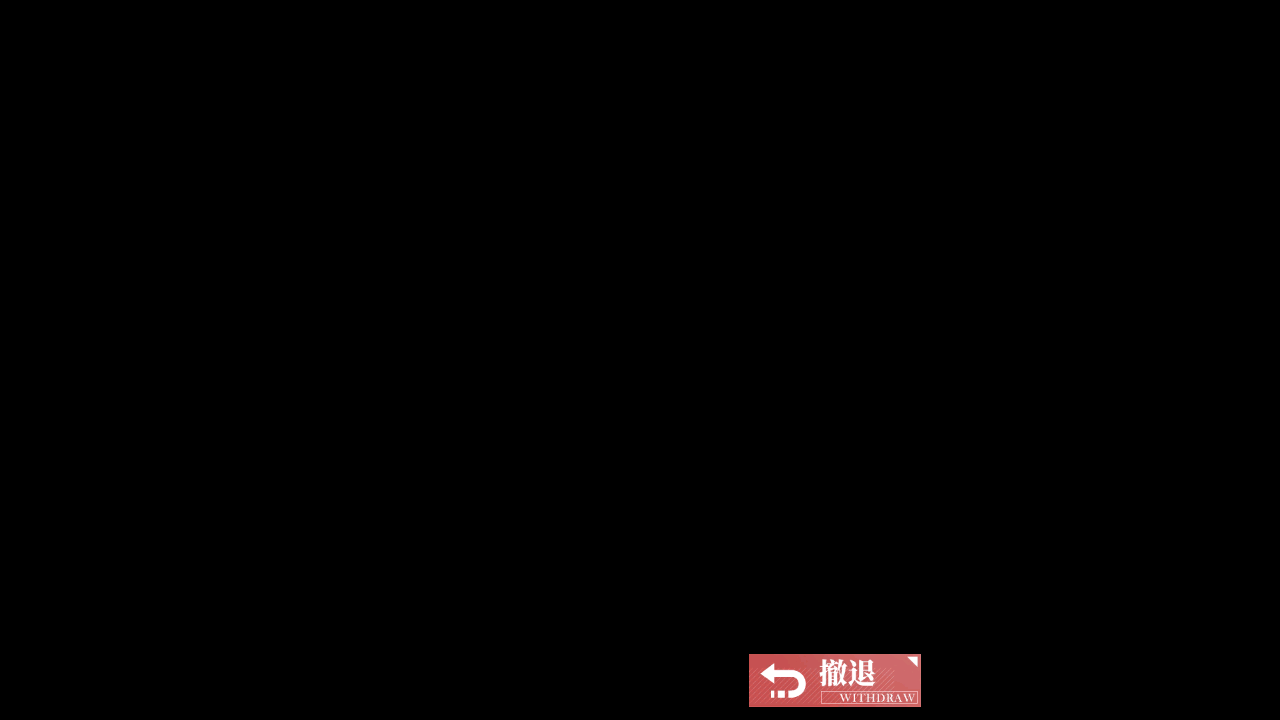
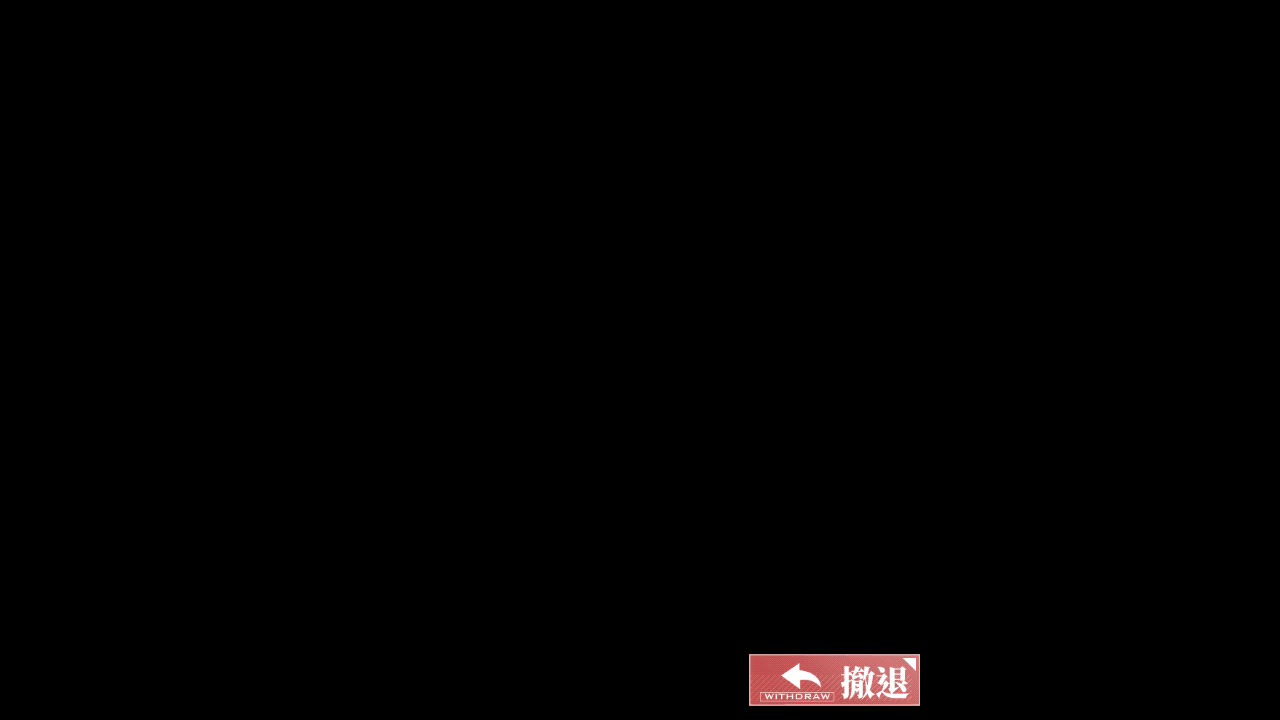
[tw] Update WITHDRAW asset (#3217)

Changed region(s): [[0.5938, 0.8861, 0.7188, 1.0]]

diff --git a/module/map/assets.py b/module/map/assets.py
@@ -4,6 +4,7 @@ from module.base.template import Template
 # This file was automatically generated by dev_tools/button_extract.py.
 # Don't modify it manually.
 
+WITHDRAW = Button(area={'cn': (749, 654, 921, 707), 'en': (748, 652, 922, 702), 'jp': (748, 653, 921, 707), 'tw': (749, 654, 920, 706)}, color={'cn': (213, 124, 124), 'en': (211, 124, 124), 'jp': (210, 122, 122), 'tw': (212, 136, 136)}, button={'cn': (749, 654, 921, 707), 'en': (748, 652, 922, 702), 'jp': (748, 653, 921, 707), 'tw': (749, 654, 920, 706)}, file={'cn': './assets/cn/map/WITHDRAW.png', 'en': './assets/en/map/WITHDRAW.png', 'jp': './assets/jp/map/WITHDRAW.png', 'tw': './assets/tw/map/WITHDRAW.png'})
 FLEET_1_ADVICE = Button(area={'cn': (1030, 207, 1074, 227), 'en': (1002, 216, 1064, 228), 'jp': (1030, 207, 1074, 228), 'tw': (1029, 206, 1074, 228)}, color={'cn': (243, 222, 179), 'en': (213, 179, 124), 'jp': (243, 222, 179), 'tw': (239, 214, 167)}, button={'cn': (1030, 207, 1074, 227), 'en': (1002, 216, 1064, 228), 'jp': (1030, 207, 1074, 228), 'tw': (1029, 206, 1074, 228)}, file={'cn': './assets/cn/map/FLEET_1_ADVICE.png', 'en': './assets/en/map/FLEET_1_ADVICE.png', 'jp': './assets/jp/map/FLEET_1_ADVICE.png', 'tw': './assets/tw/map/FLEET_1_ADVICE.png'})
 FLEET_1_BAR = Button(area={'cn': (1012, 269, 1183, 515), 'en': (993, 270, 1164, 515), 'jp': (1012, 269, 1183, 515), 'tw': (1012, 268, 1183, 515)}, color={'cn': (177, 170, 154), 'en': (169, 168, 169), 'jp': (177, 170, 154), 'tw': (177, 168, 154)}, button={'cn': (1012, 269, 1183, 515), 'en': (993, 270, 1164, 515), 'jp': (1012, 269, 1183, 515), 'tw': (1012, 268, 1183, 515)}, file={'cn': './assets/cn/map/FLEET_1_BAR.png', 'en': './assets/en/map/FLEET_1_BAR.png', 'jp': './assets/jp/map/FLEET_1_BAR.png', 'tw': './assets/tw/map/FLEET_1_BAR.png'})
 FLEET_1_CHOOSE = Button(area={'cn': (1021, 192, 1083, 251), 'en': (1003, 193, 1063, 251), 'jp': (1022, 192, 1083, 251), 'tw': (1019, 190, 1085, 251)}, color={'cn': (201, 162, 104), 'en': (192, 145, 84), 'jp': (201, 161, 102), 'tw': (198, 157, 100)}, button={'cn': (1021, 192, 1083, 251), 'en': (1003, 193, 1063, 251), 'jp': (1022, 192, 1083, 251), 'tw': (1019, 190, 1085, 251)}, file={'cn': './assets/cn/map/FLEET_1_CHOOSE.png', 'en': './assets/en/map/FLEET_1_CHOOSE.png', 'jp': './assets/jp/map/FLEET_1_CHOOSE.png', 'tw': './assets/tw/map/FLEET_1_CHOOSE.png'})
@@ -32,4 +33,3 @@ SUBMARINE_CLEAR = Button(area={'cn': (1109, 443, 1169, 501), 'en': (1093, 443, 1
 SUBMARINE_HARD_SATIESFIED = Button(area={'cn': (211, 514, 375, 539), 'en': (189, 517, 339, 541), 'jp': (211, 514, 375, 539), 'tw': (217, 511, 309, 536)}, color={'cn': (59, 57, 58), 'en': (68, 69, 66), 'jp': (59, 57, 58), 'tw': (99, 95, 90)}, button={'cn': (211, 514, 375, 539), 'en': (189, 517, 339, 541), 'jp': (211, 514, 375, 539), 'tw': (217, 511, 309, 536)}, file={'cn': './assets/cn/map/SUBMARINE_HARD_SATIESFIED.png', 'en': './assets/en/map/SUBMARINE_HARD_SATIESFIED.png', 'jp': './assets/jp/map/SUBMARINE_HARD_SATIESFIED.png', 'tw': './assets/tw/map/SUBMARINE_HARD_SATIESFIED.png'})
 SUBMARINE_IN_USE = Button(area={'cn': (454, 427, 537, 510), 'en': (436, 429, 517, 510), 'jp': (454, 427, 537, 510), 'tw': (454, 427, 538, 510)}, color={'cn': (99, 98, 116), 'en': (183, 170, 163), 'jp': (99, 98, 116), 'tw': (129, 116, 105)}, button={'cn': (454, 427, 537, 510), 'en': (436, 429, 517, 510), 'jp': (454, 427, 537, 510), 'tw': (454, 427, 538, 510)}, file={'cn': './assets/cn/map/SUBMARINE_IN_USE.png', 'en': './assets/en/map/SUBMARINE_IN_USE.png', 'jp': './assets/jp/map/SUBMARINE_IN_USE.png', 'tw': './assets/tw/map/SUBMARINE_IN_USE.png'})
 SWITCH_OVER = Button(area={'cn': (947, 654, 1118, 706), 'en': (945, 647, 1119, 702), 'jp': (946, 653, 1119, 707), 'tw': (947, 654, 1118, 706)}, color={'cn': (144, 158, 198), 'en': (139, 154, 194), 'jp': (142, 156, 195), 'tw': (144, 158, 198)}, button={'cn': (947, 654, 1118, 706), 'en': (945, 647, 1119, 702), 'jp': (946, 653, 1119, 707), 'tw': (947, 654, 1118, 706)}, file={'cn': './assets/cn/map/SWITCH_OVER.png', 'en': './assets/en/map/SWITCH_OVER.png', 'jp': './assets/jp/map/SWITCH_OVER.png', 'tw': './assets/tw/map/SWITCH_OVER.png'})
-WITHDRAW = Button(area={'cn': (749, 654, 921, 707), 'en': (748, 652, 922, 702), 'jp': (748, 653, 921, 707), 'tw': (749, 654, 921, 707)}, color={'cn': (213, 124, 124), 'en': (211, 124, 124), 'jp': (210, 122, 122), 'tw': (213, 124, 124)}, button={'cn': (749, 654, 921, 707), 'en': (748, 652, 922, 702), 'jp': (748, 653, 921, 707), 'tw': (749, 654, 921, 707)}, file={'cn': './assets/cn/map/WITHDRAW.png', 'en': './assets/en/map/WITHDRAW.png', 'jp': './assets/jp/map/WITHDRAW.png', 'tw': './assets/tw/map/WITHDRAW.png'})
